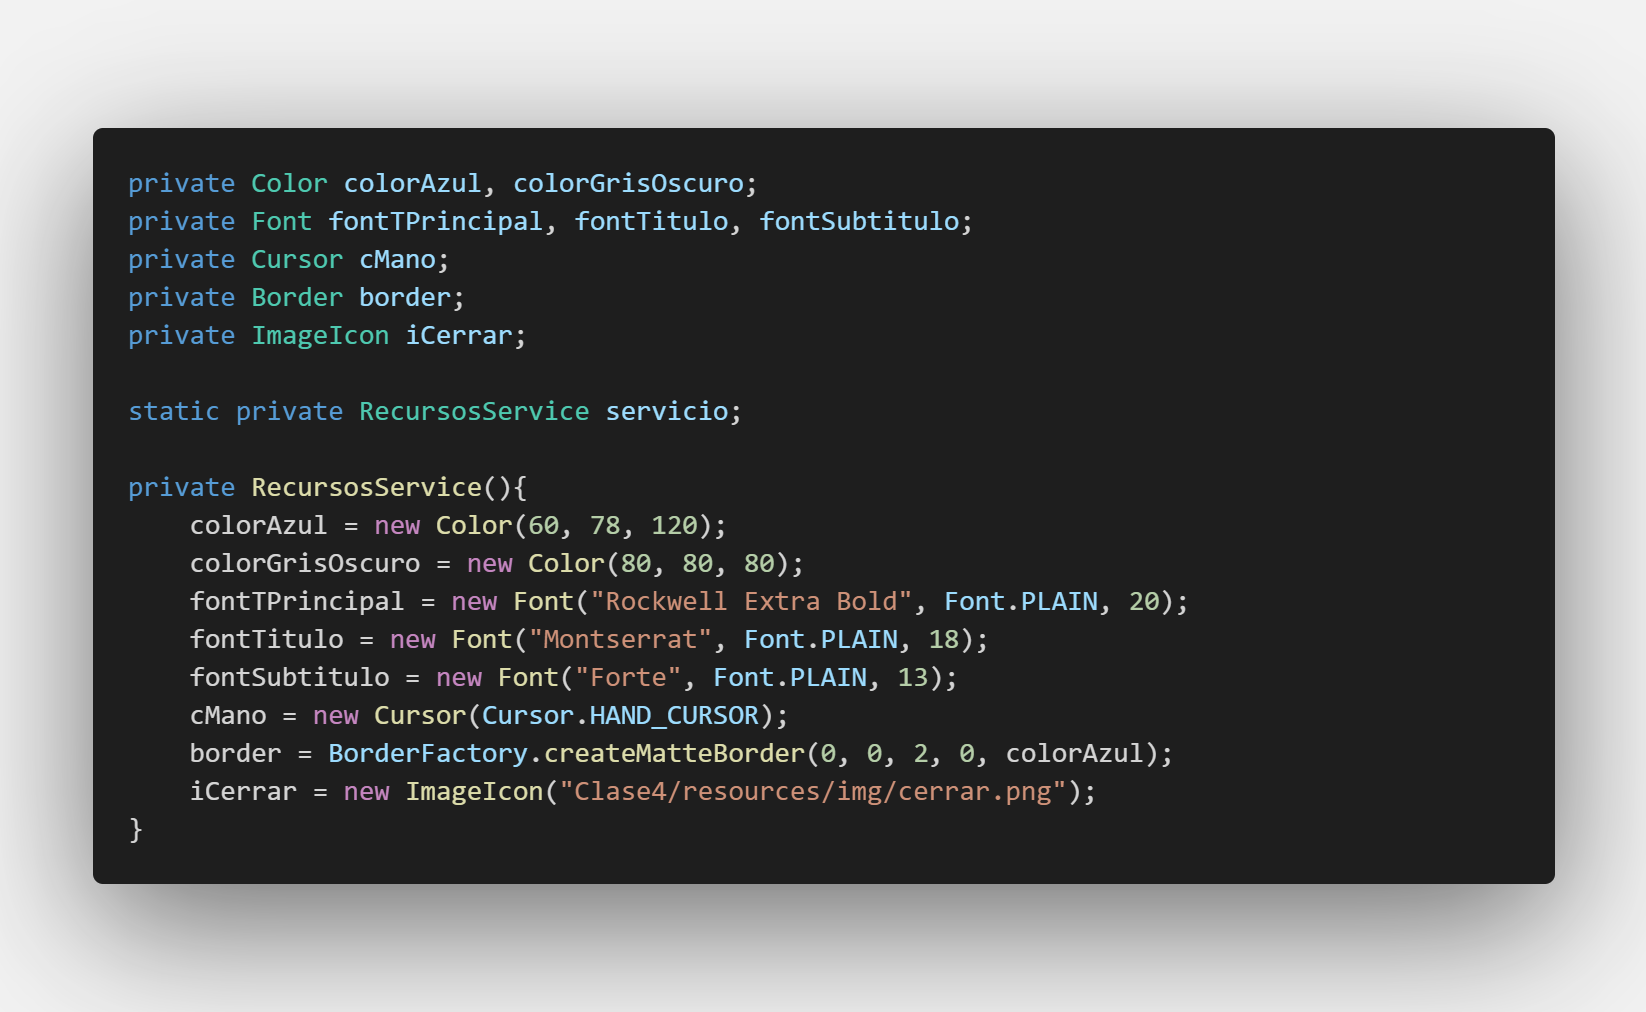
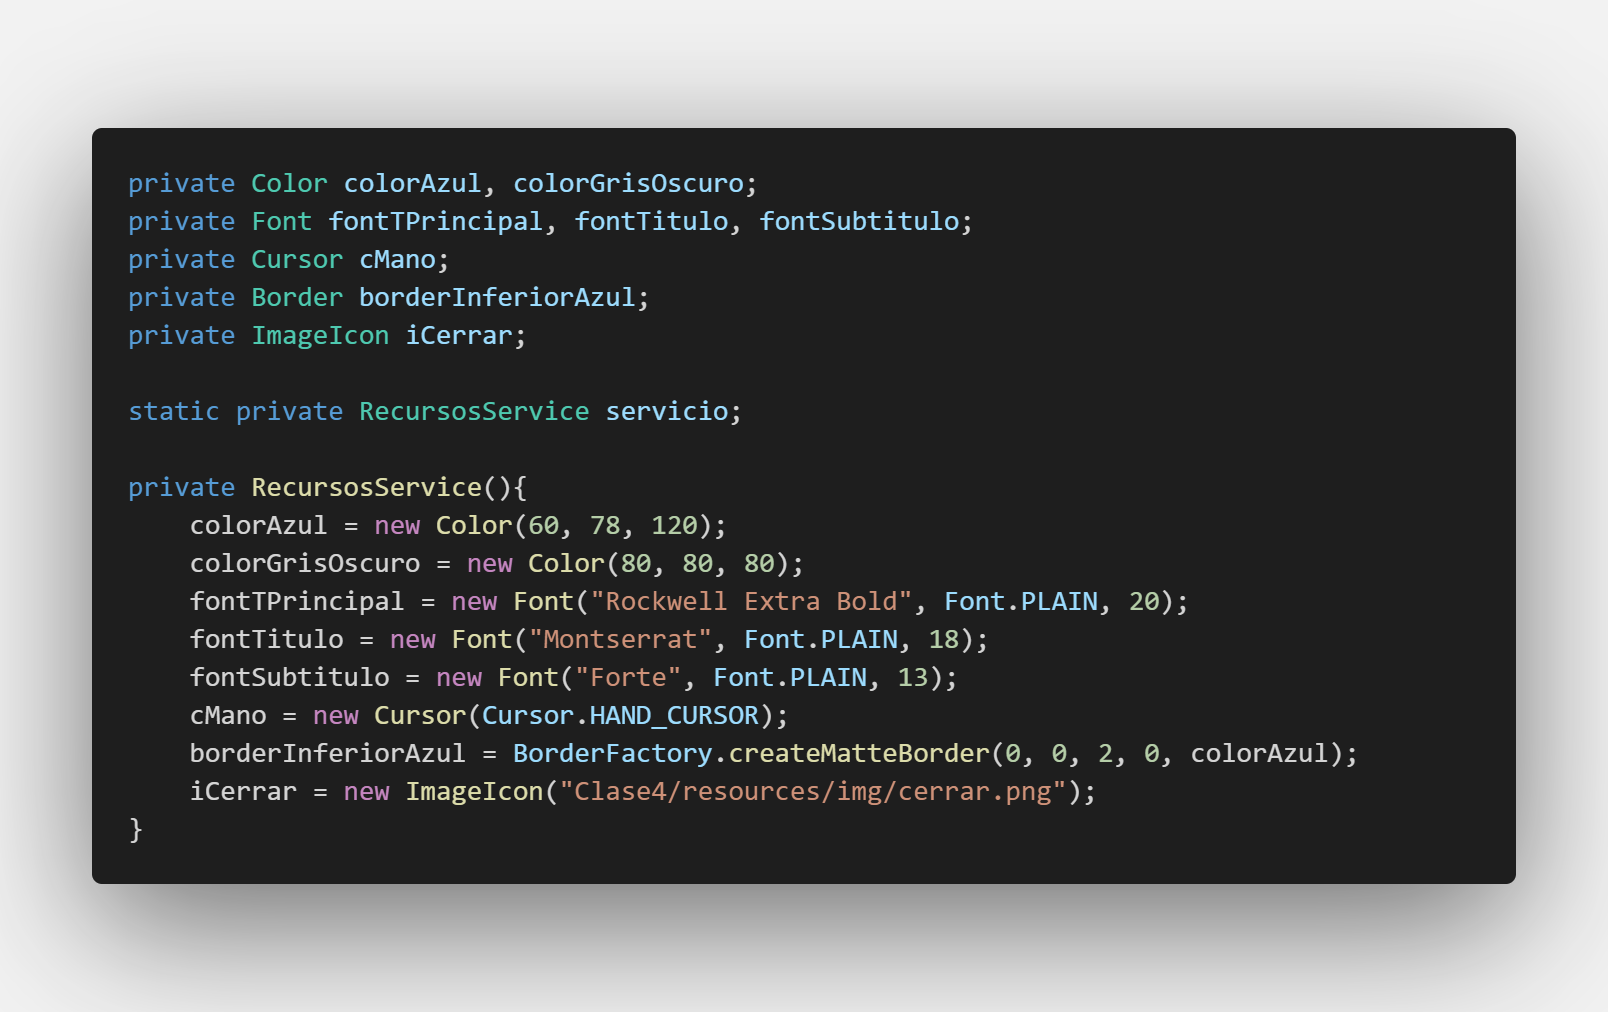
Arreglos y detalles adicionales en el ReadMe

Changed region(s): [[0.0622, 0.4595, 0.8396, 0.7964], [0.0622, 0.1532, 0.5908, 0.3676], [0.0622, 0.3982, 0.4664, 0.4289]]

diff --git a/README.md b/README.md
@@ -278,9 +278,9 @@ public static ObjGraficosService getService(){
 Se pueden notar varias cosas del método anterior:
 * La palabra clave **static** asegura que el método dentro de este servicio pueda ser llamado desde cualquier otra clase sin necesidad de ejemplificar el objeto anteriormente. 
 * En el atributo de la clase se pone el **static** también por que las variables que se trabajen dentro de un método **static** deben serlo también.
-* El método retorna un objeto de la propia clase.
-* El **if** asegura la ejemplificación única del objeto del servicio, si este es nulo lo ejemplifica, cosa que ocurrirá la primera vez que se llame al método. Pero en las posteriores llamadas al método, como el objeto ya fue ejemplificado previamente ya no entrara al if y lo retornara simplemente.
-* Este método que acabamos de realizar es conocido como **Patron Singleton**.
+* El método retorna un objeto de la propia clase. Esto quiere decir que es la misma clase la única encargada de su propia ejemplificación.
+* El **if** asegura la ejemplificación única del objeto del servicio, si este es nulo lo ejemplifica y lo retorna, cosa que ocurrirá la primera vez que se llame al método. Pero en las posteriores llamadas al método, como el objeto ya fue ejemplificado previamente ya no entrara al if y lo retornara simplemente.
+* Este método que acabamos de realizar es conocido como **Patron Singleton** y hace parte de los patrones de diseño.
 
 Ahora en nuestra Clase **LoginTemplate** podemos obtener el objeto del servicio llamando a este método de la siguiente manera:
 * Primero se importa el servicio
@@ -300,7 +300,7 @@ sObjGraficos = ObjGraficosService.getService();
 
 Como esta es la primera clase que llama a este método el objeto del servicio se ejemplificará, pero mas adelante cuando otra clase **template** realice el mismo proceso obtendrá el objeto que ya se había ejemplificado previamente.
 
-Ahora veremos un acercamiento de como serán los métodos de que encapsulan la creación genérica de los objetos gráficos dentro del servicio:
+Ahora veremos un acercamiento de como serán los métodos de que encapsulan la construcción genérica de los objetos gráficos dentro del servicio:
 
 ## JPanel 
 
@@ -328,7 +328,7 @@ Podemos observar que este método retorna un objeto tipo JPanel y recibe por par
 * **Color de Fondo**: recibe un objeto decorador tipo Color.
 * **Borde**: recibe un objeto decorador tipo Border.
 
-Adentro se encarga de la **ejemplificación y configuración del objeto gráfico para después retornarlo** por lo que realiza 2 de las 4 etapas de la creación de un objeto gráfico, estas dos etapas las podemos generalizar en un termino que es la construcción del objeto, esta es la razón de su nombre.
+Adentro se encarga de la **ejemplificación y configuración del objeto gráfico para después retornarlo** por lo que realiza 2 de las 4 etapas de la creación de un objeto gráfico, estas dos etapas las podemos generalizar en un termino que es la **construcción del objeto**, esta es la razón de su nombre.
 
 También se puede notar que hay configuraciones por defecto como la anulación del Layout Manager para ser posicionado por nosotros mismos.
 
@@ -366,11 +366,15 @@ Note varias cosas importantes:
   <p>Otras formas de formatos del código.</p>
 </div>
 
+Debemos hacer el mismo proceso con nuestro otro panel **pDerecha**.
 
 ## JButton
 
 Vamos a ver como se realizaría el método para la construcción genérica de un botón. Y mostramos este método en especifico por que es el método de construcción que necesita más parámetros para construir
 
+```javascript
+private JButton button;
+```
 ```javascript
 public JButton construirJButton(
     String texto, int x, int y, int ancho, int alto, Cursor cursor, ImageIcon imagen, Font fuente, 
@@ -420,7 +424,7 @@ Podemos observar que el método recibe por parámetros lo siguiente:
     * "r" (right): si se desea dejar el contenido en la parte derecha.
 * **¿es Solido?:** recibe un booleano, y pregunta si se quiere crear un botón solido o transparente. Si se manda en True dejara las propiedades de contenido de Java, si se pasa como False le quitara esas propiedades dejándolo transparente.
 
-Ahora desde nuestra clase **LoginTemplate** podemos llamar a este método para la construcción de los botones, a continuación se muestran 2 botones diferentes para ver algunas particularidades:
+Ahora desde nuestra clase **LoginTemplate** podemos llamar a este método para la construcción de los botones, para lo que vamos a entrar al método encargado de la creación de los botones. A continuación se muestran 2 botones diferentes para ver algunas particularidades:
 ```javascript
 bEntrar = sObjGraficos.construirJButton(
     "Entrar", (pDerecha.getWidth() - 230) / 2, 330, 
@@ -446,6 +450,7 @@ Podemos observar lo siguiente en la creación de los dos anteriores botones:
     * Va posicionado en la mitad del panel por lo que se envía el calculo, solo que ahora enviando el ancho del botón como numero directamente. 
     * Tiene incorporado un cursor y se envía como argumento.
     * Tiene color de fondo y color de fuente por lo que se envía como argumento.
+    * No contiene ni un borde ni una imagen ni una fuente asi que se envía como argumentos null.
     * Su contenido esta centrado por lo que se envía una "c" como argumento.
     * Como este botón tiene color de fondo entonces es un botón solido y se envía True.
 * **Segundo botón:**
@@ -453,11 +458,18 @@ Podemos observar lo siguiente en la creación de los dos anteriores botones:
     * Este botón contiene una imagen, pero esta debe ser previamente redimensionada para que al enviarse quede como queremos. 
     * Tiene incorporado un cursor y se envía como argumento.
     * No contiene ningún color asi que se envía como argumentos null.
+    * No contiene ni un borde ni una fuente asi que se envía como argumentos null.
     * Su contenido esta centrado por lo que se envía una "c" como argumento.
     * Como este botón no tiene color de fondo entonces es un botón transparente y se envía un False para conseguir esto.
 
+Debemos hacer uso del servicio para crear los otros botones en nuestra clase **LoginTemplate**. Si intentamos correr nuestra aplicación podemos verificar que corre perfectamente y se ve igual a como la teníamos, esto quiere decir que el servicio esta funcionando:
 
-    El resto de métodos de nuestro servicio esta contenido dentro de este repositorio, puede observar todo el código  entrando a la carpeta **Clase4** luego a la carpeta **src/app** seguido de la carpeta **services** y entrando a la clase **objGraficosservice.java**. Allí usted podrá copiar los métodos que hacen falta y empezar a implementarlos desde la clase **LoginTemplate** para la optimización del código. 
+<div align="center">
+  <img  src="./resources/interfaz7.png">
+  <p>Interfaz gráfica funcionando correctamente con la incorporación del servicio.</p>
+</div>
+
+El resto de métodos de nuestro servicio esta contenido dentro de este repositorio, puede observar todo el código  entrando a la carpeta **Clase4** luego a la carpeta **src/app** seguido de la carpeta **services** y entrando a la clase **objGraficosservice.java**. Allí usted podrá copiar los métodos que hacen falta y empezar a implementarlos desde la clase **LoginTemplate** para la optimización del código. 
      
 <div align="center">
   <img  src="./resources/repositorio1.png">
@@ -484,12 +496,12 @@ Podemos observar lo siguiente en la creación de los dos anteriores botones:
   <p>Código del servicio dentro del repositorio.</p>
 </div>
 
-Este servicio podrá usarse en todos sus proyectos front-end para hacer más fácil la creación de objetos gráficos, cuando tenga el servicio completo podrá usarlo en la clase **loginTemplate** para la construcción de todos los objetos gráficos.
+Una vez haya copiado todos los métodos de construcción en el servicio, este estará listo para usarse en todas nuestras clases **template** que creemos posteriormente. Este servicio podrá usarse también en todos sus proyectos frontend para hacer más fácil la creación de objetos gráficos. Recuerde que cuando tenga el servicio completo podrá usarlo en la clase **loginTemplate** para la construcción de todos los objetos gráficos y probar que todo esta bien corriendo la aplicación.
 
 
 # Optimización de recursos
 
-Si ya hemos llegado hasta aquí hemos realizado una moduralización de nuestro código y ademas  una optimización de este. Pero aun podemos dar un paso más, vamos a ver la optimización de recursos. Esto intenta resolver la creación desproporcionada de objetos que estaremos creando en nuestras clases. 
+Si ya hemos llegado hasta aquí hemos realizado una moduralización de nuestro código y ademas  una optimización de este. Pero aun podemos dar un paso más, vamos a ver la optimización de recursos. Esto intenta resolver la creación desproporcionada de objetos que estaremos creando en nuestras clases UI. 
 
 Tenemos que hallar una forma de controlar la creación de objetos que muy posiblemente usemos en varias clases. Por ejemplo los objetos decoradores son muy propensos a ser utilizados en diferentes clases. Es muy posible que el cursor que creamos para pasar sobre los botones lo usemos también en otras clases que tengan botones. El color Azul muy posiblemente lo usemos en nuestra clase **VistaPrincipalTemplate** y en muchas otras más. 
 
@@ -502,23 +514,25 @@ Vamos a crear otro servicio llamado **RecursosService** y realizaremos el mismo 
   <p>Creación de servicio Recursos.</p>
 </div>
 
-Ahora en login Template debemos igualmente obtener el objeto de este servicio:
-
+Ahora en la clase **loginTemplate** debemos igualmente obtener el objeto de este servicio:
+**importación**
 ```javascript
 import app.services.RecursosService;
 ```
+**declaración**
 ```javascript
 private RecursosService sRecursos;
 ```
+**obtención de ejemplificación**
 ```javascript
 sRecursos = RecursosService.getService();
 ```
 Vamos a mirar que objetos decoradores se pueden usar en varias clases **template**:
 
-* El cursor de mano para los botones seguramente se use en varias clases.
-* Los colores también se usaran en varias partes del proyecto.
-* Las fuentes se usaran claramente en otras clases.
-* El borde azul en la parte inferior es probable que lo usemos en otras partes.
+* El cursor de mano para los botones seguramente se use en varias clases que tengan botones.
+* Los colores también se usaran en varias partes del proyecto, es común que un proyecto entero de Interfaz Gráfica de usuario maneje una gama especifica de colores.
+* Las fuentes se usaran claramente en otras clases, no todas las fuentes se usaran en todo el proyecto podrían existir unas particulares en una clase pero es bueno manejar una tipografía común en todas nuestras interfaces del proyecto.
+* El borde azul en la parte inferior es probable que lo usemos en otras clases que contengan JTextField.
 * La imagen de cerrar ventana se podría volver a utilizar en la Vista principal.
 
 Ahora vamos a realizar la creación de estos objetos decoradores en el servicio (los podemos crear dentro del constructor del servicio o en un método encargado de la creación de objetos decoradores dentro del servicio) y los borraremos de nuestra clases **LoginTemplate**:
@@ -528,9 +542,11 @@ Ahora vamos a realizar la creación de estos objetos decoradores en el servicio 
   <p>Objetos decoradores que se van a utilizar en varias partes del proyecto creados dentro del servicio.</p>
 </div>
 
+Note que el nombre de la variable **border** cambio a **borderInferiorAzul** esto ya que es muy probable que creemos más bordes en nuestro proyecto y necesitamos ser específicos con cada uno de nuestros objetos.
+
 <div align="center">
   <img  src="./resources/codigo12.png">
-  <p>El método crearObjetosDecoradores con solo los objetos decoradores necesarios unicamente en esa clase.</p>
+  <p>El método crearObjetosDecoradores de la clase LoginTemplate con solo los objetos decoradores necesarios unicamente en esa clase.</p>
 </div>
 
 Ahora para que cualquier clase **template** pueda obtener estos objetos decoradores a traves del servicio necesitamos crear unos métodos **get** que nos retornen estos objetos:
@@ -591,14 +607,14 @@ Ahora si por ejemplo en nuestra clase **VistaPrincipalTemplate** necesitamos uti
   <p>Ventana VistaPrincipalTemplate.</p>
 </div>
 
- Aunque el objeto se ve reflejado en dos clases distintas solo existe una vez en memoria. De igual forma el servicio **RecursosService** solo existirá una vez en memoria sin importar en cuantas clases lo llamen.
+ Aunque el objeto decorador **colorAzul** se ve reflejado en dos clases distintas solo existe una vez en memoria. De igual forma el servicio **RecursosService** solo existirá una vez en memoria sin importar en cuantas clases lo llamen.
 
 # Resultado
 
 Si has llegado hasta aquí **!Felicidades!** ahora no solo tienes una interfaz gráfica agradable para el usuario, también tienes un código mucho más optimizado modularizado, responsable con los recursos y mantenible.
 
-En la siguiente clase vamos a revisar el concepto de Componente gráfico y su importancia en la creación de interfaces gráfica con proyectos grandes, eventos básicos de botones.
+En la siguiente clase vamos a revisar el concepto de Componente gráfico y su importancia en la creación de interfaces gráfica con proyectos grandes. También nos introduciremos a los eventos empezando con los eventos básicos de botones.
 
 # Actividad
 
-Implementa los servicios de creación de objetos gráficos y de recursos para agregar optimización de código y recursos.  Ademas de realizar modularizacion en el código.
+Implementa los servicios de creación de objetos gráficos y de recursos para agregar optimización de código y recursos en sus Login propios.  Ademas de realizar modularizacion en el código.
